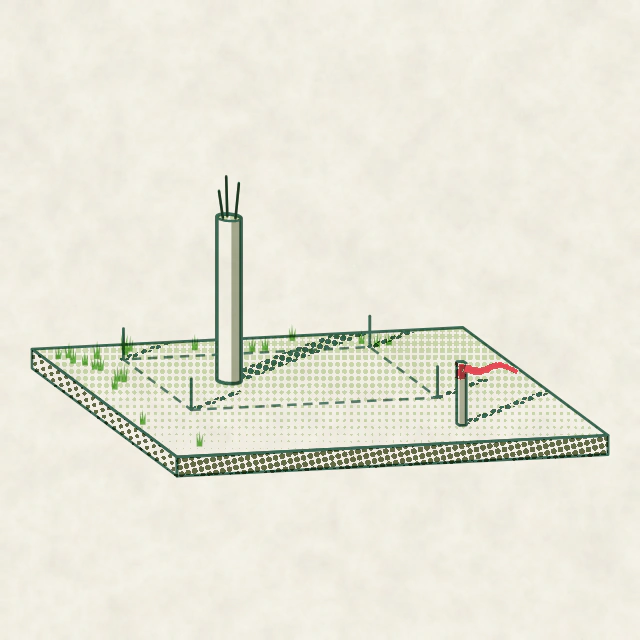
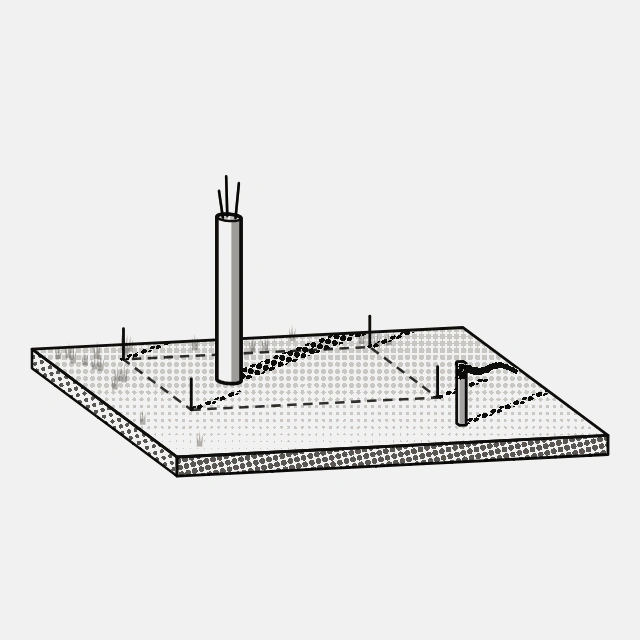
feat(brand): print the app's empty-state vignettes in the brand neutrals
The three vignettes (six files) were green line art on cream with a red
ribbon, the retired brand. The riso engine now takes a per-work `look`
(ink hex per drum, paper colour, flat sheet) and the vignetten work prints
in ink, ink-muted and two let-down tints of it on the image ground
#f2f1f0. Drawings, screens and registration are unchanged; the manifest
hashes follow the new bytes, and the alt text no longer says "red".

Claude-Session: https://claude.ai/code/session_01XeEkejirNo3AjR8CYLB82a

Changed region(s): [[0.0312, 0.2812, 0.9688, 0.75]]

diff --git a/packages/brand/art/riso/vignetten/index.html b/packages/brand/art/riso/vignetten/index.html
@@ -30,7 +30,8 @@
    than a dot ramp.
 
    Same series as Tafeln: the one camera, the series sun (dawn for the plot),
-   paper, the five drums, Kelly only for something alive, red once at most.
+   the five drums, Kelly only for something alive, red once at most. They print
+   in the brand neutrals, not the series' colours: see `look` at Riso.run.
    ───────────────────────────────────────────────────────────────────────── */
 
 /* Line weights in 1080-unit space for the 320 slot: 1.84, 1.42 and 1.27 px at 1x. */
@@ -321,8 +322,25 @@ const PLANSCHRANK = (() => {
    with empty alt; the alt here is for any other use.
    ═════════════════════════════════════════════════════════════════════════ */
 
+/* The brand neutrals (design system 3.0; no hue, D26). The vignettes sit in the
+   product app, so they print in ink on the light grey of an image ground
+   (`surface-sunken`) instead of the series' greens on cream, on a flat sheet.
+   Every drum keeps its screen, angle and registration, so the drawing is
+   unchanged; only the colour each drum prints in is. Key line and red (the
+   plate's one accent) print in ink, Moss in ink-muted, and the two tint drums
+   in ink-muted let down onto the ground (Kelly 40 %, Mist 20 %), the way a
+   riso tint is a lighter drum, so a lawn or a haze stays a quiet field. */
+const mixMuted = (share) => '#' + [[0xf2, 0x5e], [0xf1, 0x5b], [0xf0, 0x57]]
+  .map(([ground, muted]) => Math.round(ground + (muted - ground) * share).toString(16).padStart(2, '0')).join('');
+const NEUTRAL = { ink: '#0f0e0d', inkMuted: '#5e5b57', ground: '#f2f1f0', kelly: mixMuted(0.4), mist: mixMuted(0.2) };
+
 Riso.run({
   work: 'vignetten',
+  look: {
+    paper: NEUTRAL.ground,
+    mottle: false,
+    ink: { hunter: NEUTRAL.ink, red: NEUTRAL.ink, moss: NEUTRAL.inkMuted, kelly: NEUTRAL.kelly, mist: NEUTRAL.mist },
+  },
   plates: [
     { name: 'bauplatz',    art: BAUPLATZ,    composes: ['empty'] },
     { name: 'abstecken',   art: ABSTECKEN,   composes: ['empty'] },
@@ -330,8 +348,8 @@ Riso.run({
   ],
   jobs: [
     { plate: 'bauplatz', format: 'empty',
-      alt: { de: 'Ein leerer Bauplatz auf einem Modellbrett im Morgenlicht: ein abgesteckter Grundriss, eine einzelne Stütze mit Bewehrungseisen und ein Vermessungspflock mit rotem Band.',
-             en: 'An empty building plot on a model board at dawn: a pegged-out plot, a single column with rebar sticking out of its head, and a survey stake with a red ribbon.' } },
+      alt: { de: 'Ein leerer Bauplatz auf einem Modellbrett im Morgenlicht: ein abgesteckter Grundriss, eine einzelne Stütze mit Bewehrungseisen und ein Vermessungspflock mit einem Band.',
+             en: 'An empty building plot on a model board at dawn: a pegged-out plot, a single column with rebar sticking out of its head, and a survey stake with a ribbon.' } },
     { plate: 'abstecken', format: 'empty',
       alt: { de: 'Auf einem Rasenbrett ist ein Grundstück mit vier Pflöcken und einer Schnur abgesteckt; eine Figur mit einer Planrolle steht an der Ecke.',
              en: 'A plot staked out with four stakes and a string on a lawn board; a figure holding a rolled drawing stands at the corner.' } },

diff --git a/packages/brand/art/riso/lib/engine.js b/packages/brand/art/riso/lib/engine.js
@@ -34,6 +34,13 @@ const SEP = QS.get('sep');
 const DEBUG = QS.get('debug') || '';
 const NOPAPER = QS.get('paper') === '0';
 
+/* A work's own look, from Riso.run({ look }): `ink` maps an ink name to the hex it
+   prints in, `paper` is the sheet's colour, `mottle: false` leaves the sheet flat
+   (no fibres, flecks or mottling). Unset, a work prints in the series look of
+   piloti.js. The vignetten work uses it to print in the brand neutrals. */
+let LOOK = { ink: {}, paper: null, mottle: true };
+const inkHex = (ink) => LOOK.ink[ink] || INK[ink];
+
 /* Every format is drawn in a 1080-unit wide space. H is the format's height in
    units. OUT/OUTH/K/PITCH are set per job before a bake. */
 const W = 1080;
@@ -136,7 +143,8 @@ function screenPlate(tone, line, name) {
 function bakePaper() {
   const c = cv(OUT, OUTH), x = c.getContext('2d');
   x.setTransform(K, 0, 0, K, 0, 0);
-  x.fillStyle = PAPER; x.fillRect(0, 0, W, H);
+  x.fillStyle = LOOK.paper || PAPER; x.fillRect(0, 0, W, H);
+  if (LOOK.mottle === false) return c;
   const r = rngFor('paper');
   for (const [res, maxA] of [[30, 0.09], [72, 0.065], [165, 0.045]]) {
     const rh = Math.max(2, Math.round(res * H / W));
@@ -482,7 +490,7 @@ const Riso = (() => {
       const tin = cv(OUT, OUTH), tx = tin.getContext('2d');
       tx.drawImage(dots, 0, 0);
       tx.globalCompositeOperation = 'source-in';
-      tx.fillStyle = INK[ink];
+      tx.fillStyle = inkHex(ink);
       tx.fillRect(0, 0, OUT, OUTH);
       const [rx, ry] = REG[ink];
       o.save();
@@ -504,6 +512,7 @@ const Riso = (() => {
 
   function run(spec) {
     let jobs, arts;
+    if (spec.look) LOOK = { ...LOOK, ...spec.look, ink: { ...spec.look.ink } };
     try { ({ jobs, arts } = expand(spec)); } catch (e) { refuse(e); return; }
     const canvas = document.getElementById('c'), ctx = canvas.getContext('2d');
     const baked = new Map();

diff --git a/apps/workspace/ui/components/brand/riso-print.tsx b/apps/workspace/ui/components/brand/riso-print.tsx
@@ -4,10 +4,11 @@ import { artImage, type ArtId } from '@/lib/art'
 import { cn } from '@/lib/utils'
 
 /**
- * A Piloti riso print (the picture language of the public site), by art id.
+ * A riso print (a halftone line drawing), by art id.
  *
- * The print is a halftone screen on warm paper `#F4F2E8`, exported at the
- * exact pixel size of its slot. Two rules follow from that:
+ * The print is a halftone screen in ink and ink-muted on the light image
+ * ground `#f2f1f0` (the brand neutrals, no hue), exported at the exact pixel
+ * size of its slot. Two rules follow from that:
  *
  * - **Native size only.** It is shown at its CSS size from `sm` up and at
  *   exactly half below it (a phone column is narrower than 320 px), never at a
@@ -15,8 +16,8 @@ import { cn } from '@/lib/utils'
  *   into moiré. So no `next/image` (it re-encodes and resizes), no
  *   `max-width: 100%`, no `object-fit`.
  * - **Paper, not ink.** The print is a sheet, so it has the sheet's rounded
- *   corners. In light mode its paper sits on the app's warm paper plane and
- *   needs nothing more. In dark mode it is not inverted or tinted: it is a
+ *   corners. In light mode its grey ground sits on the app's surface as an
+ *   image ground does and needs nothing more. In dark mode it is not inverted or tinted: it is a
  *   printed sheet lying on the charcoal, so it takes the raised-plane shadow
  *   and is dimmed a step so a bright square does not glare out of a dark page.
  *

diff --git a/packages/brand/art/riso/vignetten/PRINT.md b/packages/brand/art/riso/vignetten/PRINT.md
@@ -42,6 +42,33 @@ What this work does differently, and why:
 - **No numeral** (`empty` sets `numeral: false`): a vignette is not a plate of
   the series, it is a spot in a product.
 
+## Printed in the brand neutrals (2026-10-29)
+
+The product app follows the design system 3.0, which has no brand colour: ink
+`#0f0e0d`, warm white `#fafaf9`, one light grey `#f2f1f0` and ink-muted `#5e5b57`
+for secondary marks. Green line art and a red ribbon were the retired brand.
+So this work passes its own `look` to `Riso.run` (`lib/engine.js`) and leaves
+`lib/piloti.js` alone: each drum keeps its screen, angle, registration and every
+drawn coverage, and only the colour it prints in changes.
+
+| Drum | Series | Here |
+|---|---|---|
+| Hunter (key line) | `#407060` | ink `#0f0e0d` |
+| Bright Red (the one accent) | `#F15060` | ink `#0f0e0d`: the ribbon still reads as the stake's mark by its shape |
+| Moss (shade) | `#68724D` | ink-muted `#5e5b57` |
+| Kelly (lawn, tufts) | `#67B346` | ink-muted let down 40 % onto the ground, `#b7b5b3` |
+| Mist (haze, glancing faces) | `#D5E4C0` | ink-muted let down 20 % onto the ground, `#d4d3d1` |
+| Paper | `#F4F2E8`, mottled | `#f2f1f0` (`surface-sunken`, the image ground), flat |
+
+Kelly and Mist printed in full ink-muted turned the lawn and the chest's top
+into heavy dot fields (first proof, rejected); a riso tint is a lighter drum,
+so the two tint drums print a lighter grey of the same ink. No hue remains.
+
+Exported with Chromium: the container this was made in cannot launch Firefox
+(see the kit README), so the pixels differ from a Firefox export by
+antialiasing; `verify.mjs` in both engines is still the check after a drawing
+change.
+
 ## Plates
 
 ### I. Bauplatz (building plot)
@@ -122,6 +149,8 @@ the product app and its manifest is `apps/workspace/bff/art/art.json`.
 - III: 1:1 crops at 640 of the pulled drawer and the drawer fronts, before and
   after the south faces moved from Moss to Mist.
 - `verify.mjs --work vignetten`: all six jobs repeat in Chromium and Firefox.
+- Neutral look (2026-10-29): all three at 320 and 640, full frame, in Chromium;
+  first proof with every shade drum in ink-muted rejected as too heavy.
 
 ## Remaining weaknesses
 
